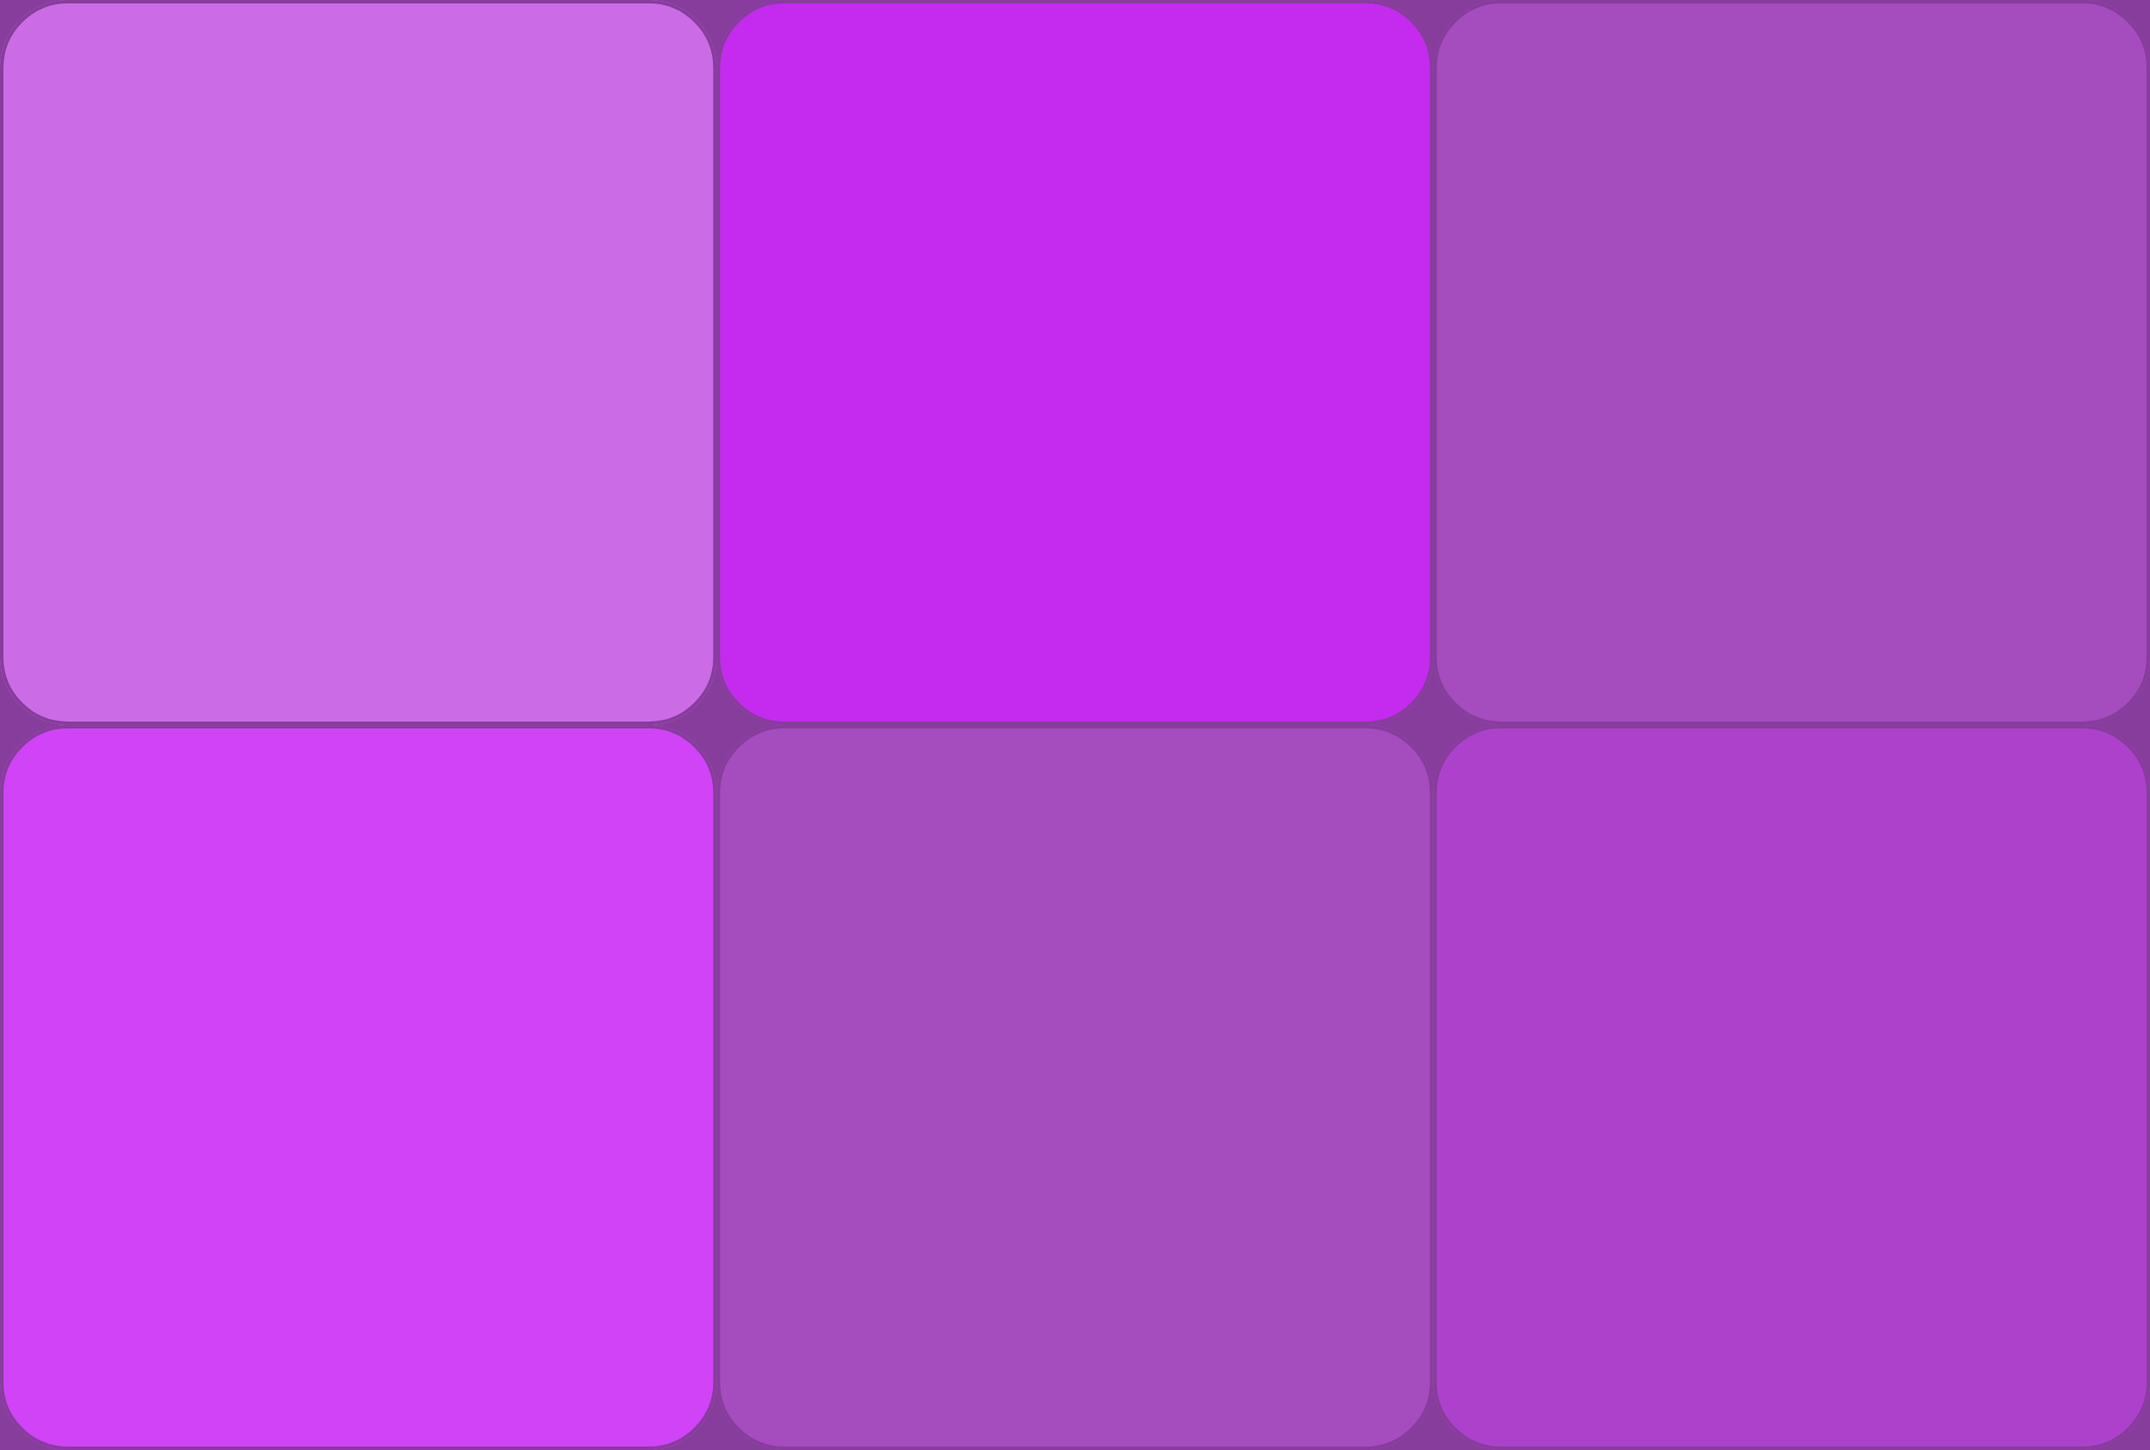
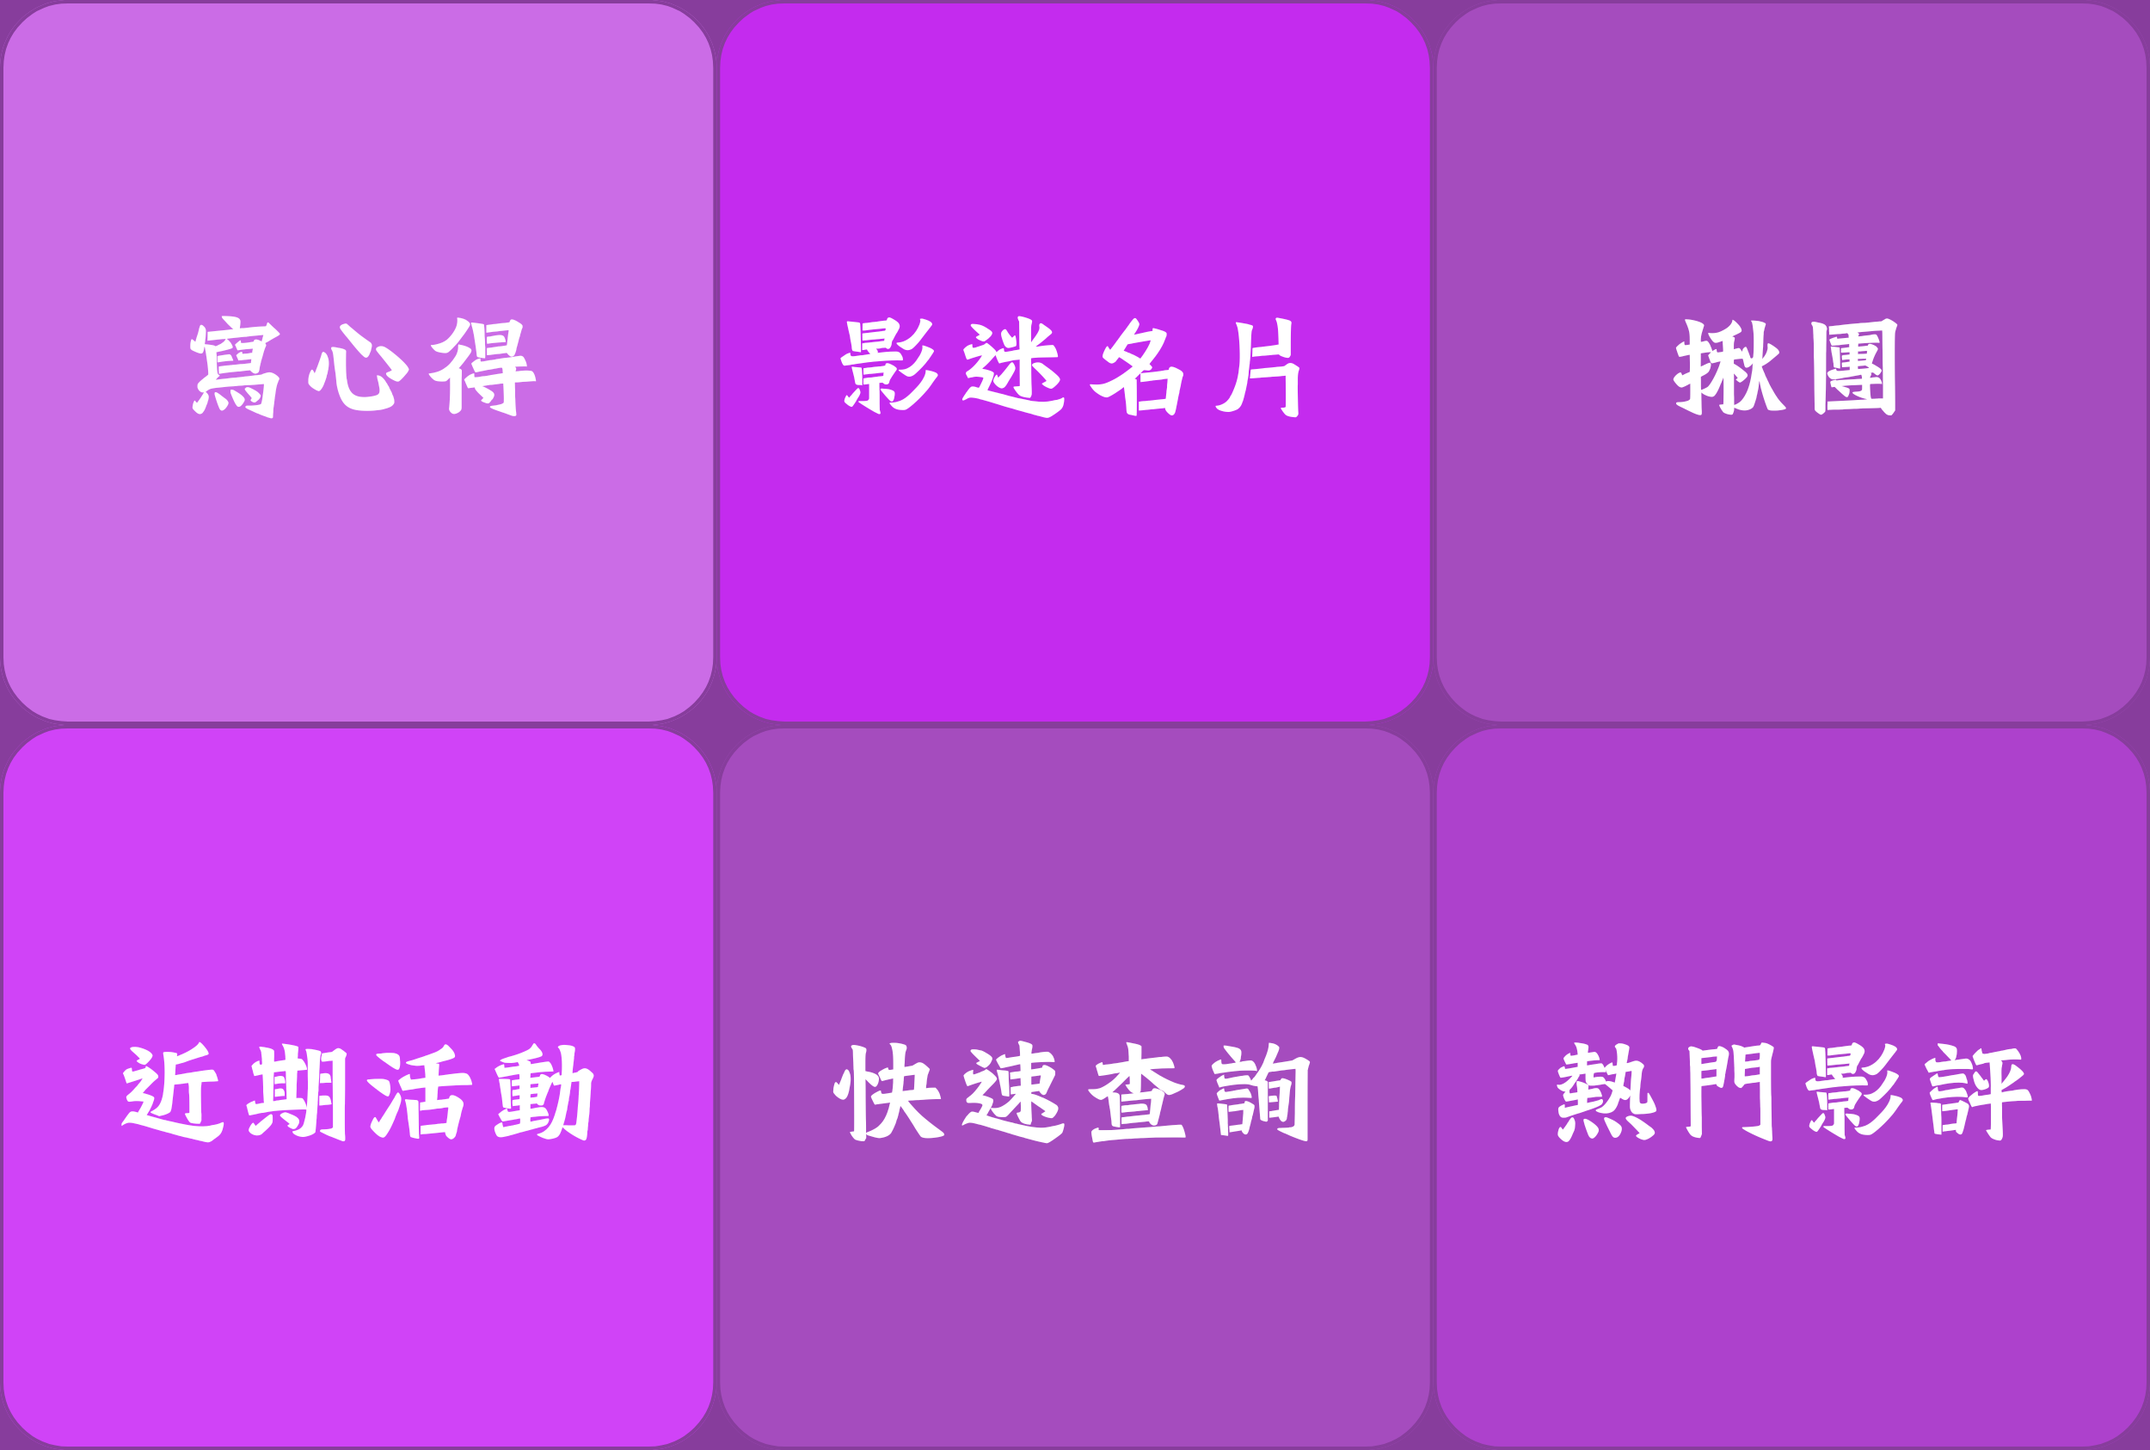
Implement LIFF auto-login, Profile page, and stateful LINE search

diff --git a/frontend/src/pages/liff/ProfileCard.jsx b/frontend/src/pages/liff/ProfileCard.jsx
@@ -1,46 +1,21 @@
-import React, { useState, useEffect } from 'react';
-import liff from '@line/liff';
+import React from 'react';
+import { useAuth } from '../../contexts/AuthContext';
 
 const ProfileCard = () => {
-  const [profile, setProfile] = useState(null);
-  const [isLiffReady, setIsLiffReady] = useState(false);
-  const [error, setError] = useState('');
-
-  useEffect(() => {
-    const liffId = import.meta.env.VITE_LIFF_ID;
-    if (!liffId) {
-      setError('VITE_LIFF_ID 未設定');
-      return;
-    }
-
-    liff.init({ liffId })
-      .then(() => {
-        setIsLiffReady(true);
-        if (!liff.isLoggedIn()) {
-          liff.login();
-        } else {
-          liff.getProfile().then(p => setProfile(p));
-        }
-      })
-      .catch((err) => {
-        setError('LIFF 初始化失敗');
-        console.error(err);
-      });
-  }, []);
-
+  const { userProfile, isAuthLoading } = useAuth();
+  
   const handleShare = async () => {
-    if (!liff.isApiAvailable('shareTargetPicker')) {
+    if (!window.liff || !window.liff.isApiAvailable('shareTargetPicker')) {
       alert('您的環境不支援轉發功能');
       return;
     }
     
     try {
-      await liff.shareTargetPicker([
+      await window.liff.shareTargetPicker([
         {
           type: 'text',
-          text: `嗨！我是 ${profile?.displayName}，快來看看我的專屬影迷名片！`
+          text: `嗨！我是 ${userProfile?.line_display_name || userProfile?.username}，快來看看我的專屬影迷名片！`
         }
-        // 實務上可以傳送 Flex Message 卡片，包含 Canva 繪製的雷達圖截圖 URL
       ]);
       alert('分享成功！');
     } catch (err) {
@@ -48,8 +23,12 @@ const ProfileCard = () => {
     }
   };
 
-  if (error) return <div style={{ padding: 20, color: 'red' }}>{error}</div>;
-  if (!isLiffReady || !profile) return <div style={{ padding: 20 }}>載入中...</div>;
+  if (isAuthLoading) return <div style={{ padding: 20 }}>載入中...</div>;
+  if (!userProfile) return <div style={{ padding: 20, color: 'red' }}>無法取得使用者資料，請確認已登入或綁定 LINE 帳號。</div>;
+
+  // 嘗試取得使用者經驗值與等級
+  const level = userProfile.experience?.level || 1;
+  const exp = userProfile.experience?.exp || 0;
 
   return (
     <div style={{ 
@@ -59,7 +38,6 @@ const ProfileCard = () => {
       textAlign: 'center',
       fontFamily: 'sans-serif'
     }}>
-      {/* 這裡可以疊加由 Canva 設計的背景圖 */}
       <div style={{
         background: 'linear-gradient(135deg, #2b5876 0%, #4e4376 100%)',
         borderRadius: '15px',
@@ -68,15 +46,15 @@ const ProfileCard = () => {
         boxShadow: '0 4px 15px rgba(0,0,0,0.2)',
         marginBottom: '20px'
       }}>
-        <img 
-          src={profile.pictureUrl} 
-          alt="Avatar" 
-          style={{ width: '80px', height: '80px', borderRadius: '50%', marginBottom: '15px' }}
-        />
-        <h2 style={{ margin: '0 0 10px 0' }}>{profile.displayName}</h2>
-        <p style={{ margin: 0, opacity: 0.9 }}>Lv. 10 獨立製片信徒</p>
+        {/* 如果有 LINE 的頭像就顯示，沒有就顯示預設圖 */}
+        <div style={{
+          width: '80px', height: '80px', borderRadius: '50%', backgroundColor: '#ccc', margin: '0 auto 15px auto', display: 'flex', alignItems: 'center', justifyContent: 'center', overflow: 'hidden'
+        }}>
+           <span style={{fontSize: '40px'}}>🎬</span>
+        </div>
+        <h2 style={{ margin: '0 0 10px 0' }}>{userProfile.line_display_name || userProfile.username}</h2>
+        <p style={{ margin: 0, opacity: 0.9 }}>Lv. {level} 影迷 (EXP: {exp})</p>
         
-        {/* 雷達圖 Canvas 區塊 (預留給 Chart.js) */}
         <div style={{
           marginTop: '20px',
           height: '200px',

diff --git a/frontend/src/contexts/AuthContext.jsx b/frontend/src/contexts/AuthContext.jsx
@@ -28,27 +28,44 @@ export const AuthProvider = ({ children }) => {
       urlParams.delete('token');
       if (urlRefresh) {
         urlParams.delete('refresh');
-        // 【關鍵】在發送請求前先存入 refresh_token，
-        // 避免 urlToken 若已過期 (> 5 分鐘)，interceptor 因為找不到 refresh_token 而直接登出
         localStorage.setItem('refresh_token', urlRefresh);
       }
       const newUrl = window.location.pathname + (urlParams.toString() ? '?' + urlParams.toString() : '');
       window.history.replaceState({}, document.title, newUrl);
       
-      // 使用 token 拿取使用者資料
       api.get('/users/me/', { headers: { Authorization: `Bearer ${urlToken}` } })
         .then(res => {
-          // 若超過 5 分鐘才點連結，interceptor 可能已經用 refresh token 換發了新的 access token，
-          // 因此以 localStorage 中最新的 token 為準，避免被原本網址上過期的 urlToken 覆蓋
           const currentToken = localStorage.getItem('access_token') || urlToken;
           login(currentToken, res.data);
           setIsAuthLoading(false);
         })
         .catch(err => {
           console.error("Auto login failed", err);
-          checkLocalToken(); // 若失敗，退回檢查 local storage
+          fallbackToLiffOrLocal();
         });
     } else {
+      fallbackToLiffOrLocal();
+    }
+
+    async function fallbackToLiffOrLocal() {
+      // 嘗試 LIFF 自動登入
+      if (window.liff && import.meta.env.VITE_LIFF_ID) {
+        try {
+          await window.liff.init({ liffId: import.meta.env.VITE_LIFF_ID });
+          if (window.liff.isInClient() || window.liff.isLoggedIn()) {
+            const accessToken = window.liff.getAccessToken();
+            if (accessToken) {
+              const res = await api.post('/auth/line-login/', { access_token: accessToken });
+              localStorage.setItem('refresh_token', res.data.refresh);
+              login(res.data.access, res.data.user);
+              setIsAuthLoading(false);
+              return;
+            }
+          }
+        } catch (err) {
+          console.error('LIFF Login failed', err);
+        }
+      }
       checkLocalToken();
     }
 

diff --git a/frontend/index.html b/frontend/index.html
@@ -11,6 +11,7 @@
     <meta property="og:type" content="website" />
   </head>
   <body>
+    <script charset="utf-8" src="https://static.line-scdn.net/liff/edge/2/sdk.js"></script>
     <div id="root"></div>
     <script type="module" src="/src/main.jsx"></script>
   </body>

diff --git a/scripts/upload_rich_menu_image.py b/scripts/upload_rich_menu_image.py
@@ -2,26 +2,51 @@ import os
 import sys
 from dotenv import load_dotenv
 from linebot import LineBotApi
+from linebot.models import (
+    RichMenu, RichMenuSize, RichMenuArea, RichMenuBounds,
+    URIAction, MessageAction
+)
 
 load_dotenv()
 
 line_channel_access_token = os.getenv('LINE_CHANNEL_ACCESS_TOKEN')
+liff_base_url = os.getenv('LIFF_BASE_URL', 'https://liff.line.me/YOUR_LIFF_ID')
+
 if not line_channel_access_token:
     print("錯誤: 未設定 LINE_CHANNEL_ACCESS_TOKEN 環境變數")
     sys.exit(1)
 
 line_bot_api = LineBotApi(line_channel_access_token)
-rich_menu_id = 'richmenu-1d3bfc0ba0036c6c97e49e237887bb71'
 image_path = '使用者介面卡片.png'
 
+# 1. 建立全新的 Rich Menu
+rich_menu_to_create = RichMenu(
+    size=RichMenuSize(width=2500, height=1686),
+    selected=True,
+    name="影像製作所 主選單",
+    chat_bar_text="打開選單",
+    areas=[
+        RichMenuArea(bounds=RichMenuBounds(x=0, y=0, width=833, height=843), action=URIAction(label='寫心得', uri=f'{liff_base_url}/liff/review-form')),
+        RichMenuArea(bounds=RichMenuBounds(x=833, y=0, width=834, height=843), action=URIAction(label='影迷名片', uri=f'{liff_base_url}/liff/profile')),
+        RichMenuArea(bounds=RichMenuBounds(x=1667, y=0, width=833, height=843), action=MessageAction(label='發起揪團', text='我要揪團')),
+        RichMenuArea(bounds=RichMenuBounds(x=0, y=843, width=833, height=843), action=MessageAction(label='特映專區', text='近期活動')),
+        RichMenuArea(bounds=RichMenuBounds(x=833, y=843, width=834, height=843), action=MessageAction(label='快速查詢', text='查')),
+        RichMenuArea(bounds=RichMenuBounds(x=1667, y=843, width=833, height=843), action=MessageAction(label='熱門影評', text='熱門影評'))
+    ]
+)
+
 try:
-    print(f"正在上傳圖片 {image_path} 到 Rich Menu {rich_menu_id}...")
+    print("正在向 LINE 註冊一個全新的 Rich Menu...")
+    rich_menu_id = line_bot_api.create_rich_menu(rich_menu=rich_menu_to_create)
+    print(f"✅ 成功建立新 Rich Menu, ID: {rich_menu_id}")
+
+    print(f"正在上傳最新圖片 {image_path}...")
     with open(image_path, 'rb') as f:
         line_bot_api.set_rich_menu_image(rich_menu_id, 'image/png', f)
     
-    print("圖片上傳成功！正在設定為預設選單...")
+    print("圖片上傳成功！正在設定為所有用戶的預設選單...")
     line_bot_api.set_default_rich_menu(rich_menu_id)
     
-    print("✅ 設定完成！現在請打開手機的 LINE 官方帳號查看選單！")
+    print("✅ 設定完成！舊版選單已被取代，請打開手機的 LINE 官方帳號查看新選單！")
 except Exception as e:
     print(f"❌ 發生錯誤: {e}")

diff --git a/api/domains/auth/views.py b/api/domains/auth/views.py
@@ -117,3 +117,58 @@ class VerifyEmailView(APIView):
         record.save()
 
         return Response({'message': '信箱驗證成功'})
+
+class LineLoginView(APIView):
+    permission_classes = (AllowAny,)
+    
+    def post(self, request):
+        access_token = request.data.get('access_token')
+        if not access_token:
+            return Response({'error': 'Missing access_token'}, status=status.HTTP_400_BAD_REQUEST)
+            
+        # Verify token with LINE
+        headers = {'Authorization': f'Bearer {access_token}'}
+        resp = requests.get('https://api.line.me/v2/profile', headers=headers)
+        if resp.status_code != 200:
+            return Response({'error': 'Invalid LINE token'}, status=status.HTTP_401_UNAUTHORIZED)
+            
+        profile_data = resp.json()
+        line_user_id = profile_data.get('userId')
+        display_name = profile_data.get('displayName', 'LINE User')
+        
+        if not line_user_id:
+            return Response({'error': 'Could not get LINE User ID'}, status=status.HTTP_400_BAD_REQUEST)
+            
+        user = User.objects.filter(line_user_id=line_user_id).first()
+        
+        if not user:
+            # Create a light account if not found
+            import string
+            
+            def generate_random_campus_id():
+                while True:
+                    cid = ''.join(random.choices(string.ascii_uppercase + string.digits, k=9))
+                    if not User.objects.filter(campus_id=cid).exists():
+                        return cid
+                        
+            campus_id = generate_random_campus_id()
+            user = User.objects.create(
+                campus_id=campus_id,
+                line_user_id=line_user_id,
+                line_display_name=display_name,
+                username=display_name
+            )
+            random_nickname = f"User_{''.join(random.choices(string.ascii_letters + string.digits, k=6))}"
+            from api.models import UserProfile
+            UserProfile.objects.create(user=user, nickname=random_nickname)
+            
+        # Generate JWT for the user
+        from rest_framework_simplejwt.tokens import RefreshToken
+        refresh = RefreshToken.for_user(user)
+        
+        return Response({
+            'refresh': str(refresh),
+            'access': str(refresh.access_token),
+            'user': UserMeSerializer(user).data
+        })
+

diff --git a/api/integrations/line/webhook.py b/api/integrations/line/webhook.py
@@ -182,6 +182,44 @@ def handle_message(event):
             line_bot_api.reply_message(event.reply_token, TextSendMessage(text="心得格式錯誤，請參考範例 (不需打括號)：\n#心得\n電影：奧德賽\n評分：5\n心得：真的很好看！"))
             return
             
+    from django.core.cache import cache
+    
+    # --- Stateful Search Logic ---
+    state_key = f"line_state_{line_user_id}"
+    user_state = cache.get(state_key)
+    
+    if text == '查':
+        cache.set(state_key, "WAITING_FOR_SEARCH_QUERY", 120)  # 2分鐘過期
+        line_bot_api.reply_message(event.reply_token, TextSendMessage(text="🔍 您欲查詢哪部電影呢？\n請直接輸入電影名稱："))
+        return
+        
+    if user_state == "WAITING_FOR_SEARCH_QUERY":
+        cache.delete(state_key)  # 清除狀態
+        # 把輸入的文字當作 keyword 進行查詢
+        keyword = text.strip()
+        reviews = Review.objects.filter(movie__title__icontains=keyword, is_deleted=False).order_by('-created_at')[:5]
+        
+        if not reviews:
+            line_bot_api.reply_message(event.reply_token, TextSendMessage(text=f"找不到關於「{keyword}」的心得。"))
+            return
+            
+        reply_lines = [f"🔍 「{keyword}」的心得搜尋結果："]
+        for r in reviews:
+            reply_lines.append(f"- {r.movie.title} ({r.rating}星): {r.content[:20]}...")
+            
+        if user:
+            refresh = RefreshToken.for_user(user)
+            access_token = str(refresh.access_token)
+            refresh_token = str(refresh)
+            frontend_url = os.getenv('FRONTEND_URL', 'https://your-domain.com')
+            encoded_keyword = urllib.parse.quote(keyword)
+            search_link = f"{frontend_url}/search?q={encoded_keyword}&token={access_token}&refresh={refresh_token}"
+            reply_lines.append(f"\n🔗 點此前往網頁查看並自動登入：\n{search_link}")
+            
+        reply_lines.append("\n💡 忘記指令？輸入「/規則」即可查看規則喔！")
+        line_bot_api.reply_message(event.reply_token, TextSendMessage(text='\n'.join(reply_lines)))
+        return
+        
     if text.startswith('查 ') or text.startswith('搜尋 '):
         keyword = text.split(' ', 1)[1].strip()
         reviews = Review.objects.filter(movie__title__icontains=keyword, is_deleted=False).order_by('-created_at')[:5]

diff --git a/api/domains/auth/urls.py b/api/domains/auth/urls.py
@@ -1,7 +1,7 @@
 from django.urls import path
 from rest_framework.routers import DefaultRouter
 from rest_framework_simplejwt.views import TokenRefreshView
-from .views import RegisterView, CustomTokenObtainPairView, UserMeView, AdminUserViewSet, SendVerificationView, VerifyEmailView
+from .views import RegisterView, CustomTokenObtainPairView, UserMeView, AdminUserViewSet, SendVerificationView, VerifyEmailView, LineLoginView
 
 router = DefaultRouter()
 router.register(r'admin/users', AdminUserViewSet, basename='admin-user')
@@ -9,6 +9,7 @@ router.register(r'admin/users', AdminUserViewSet, basename='admin-user')
 urlpatterns = [
     path('register/', RegisterView.as_view(), name='auth_register'),
     path('login/', CustomTokenObtainPairView.as_view(), name='token_obtain_pair'),
+    path('line-login/', LineLoginView.as_view(), name='line_login'),
     path('refresh/', TokenRefreshView.as_view(), name='token_refresh'),
     path('send-verification/', SendVerificationView.as_view(), name='send_verification'),
     path('verify-email/', VerifyEmailView.as_view(), name='verify_email'),
